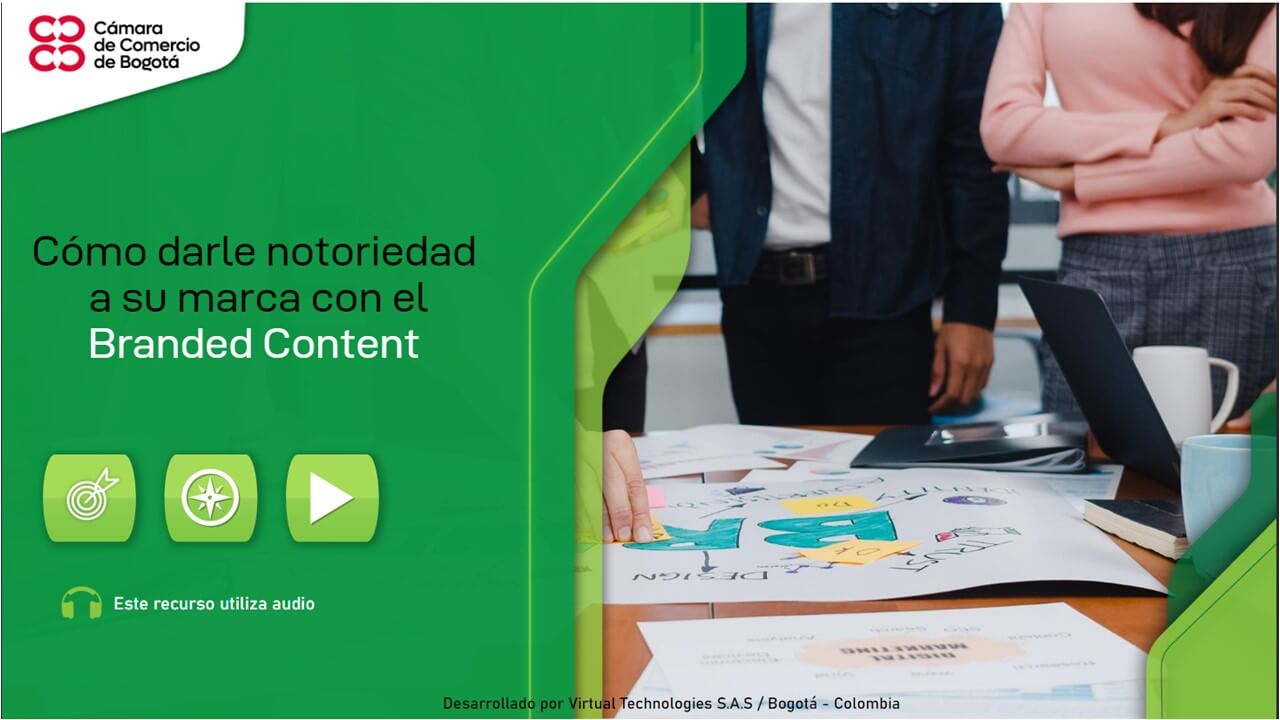
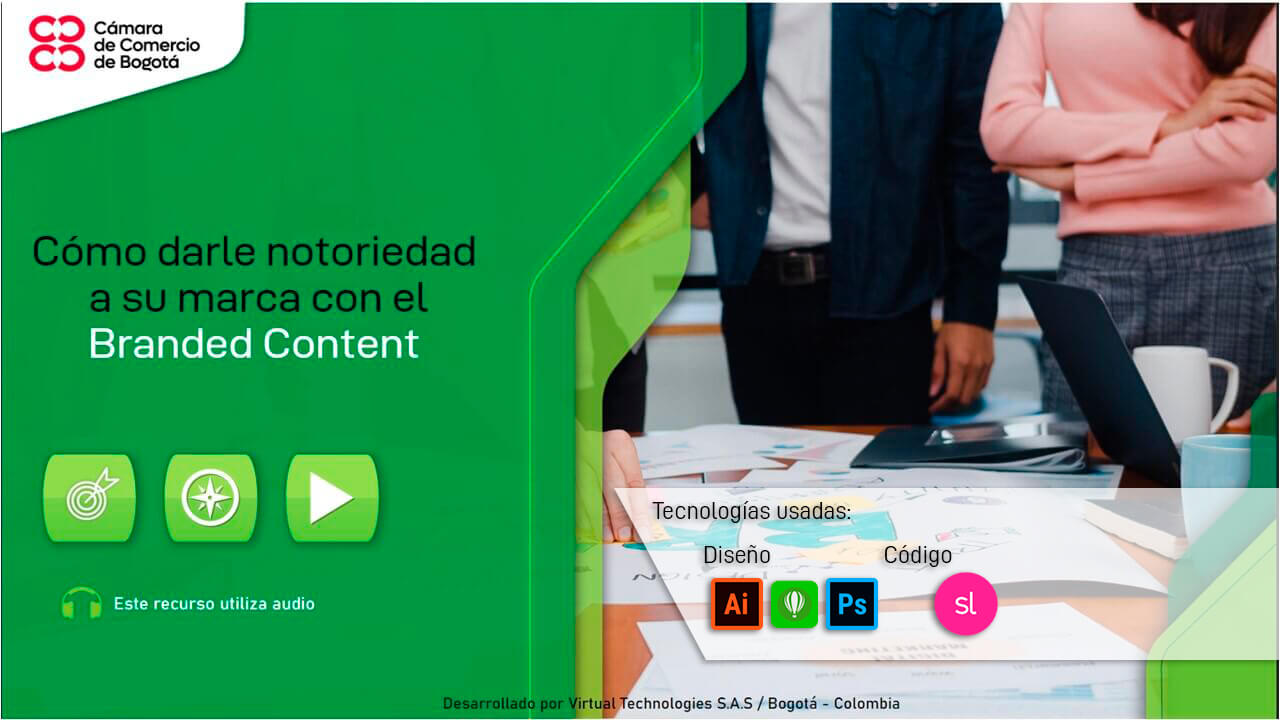
Tecnologias usadas  incorporadas en lajpg de cada curso

diff --git a/index.html b/index.html
@@ -20,7 +20,7 @@
 </head>
 
 <body>
-  <!----------------- menu de navegacion ------------------------->
+  <!----------------- menú de navegación ------------------------->
   <nav class="nav">
     <input type="checkbox" name="hambuguer" id="check">
     <label for="check" class="checkbtn"><ion-icon name="grid-outline" size="large"></ion-icon></label>
@@ -72,7 +72,7 @@
             <div class="fondo__cubo bootstrap"></div>
             <div class="fondo__cubo mySql"></div>
           </div>
-          <h1 class="profecion parrafo saludo" style="font-size: 2em">Hola! Me llamo </h1>
+          <h1 class="profecion parrafo saludo" style="font-size: 2em">Hola! Mi nombre es</h1>
           <h1 class="inicio__nombre ">Carlos Andres Aristizabal Kenguan</h1>
           <h3 class="profecion ">Desarrollador Web Full Stack</h3>
           <div class="inicio__profecion">
